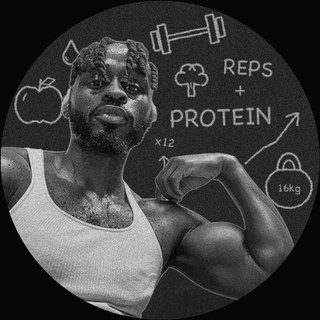
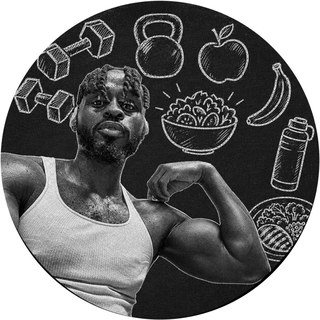
New chalk headshot on website

diff --git a/index.html b/index.html
@@ -43,8 +43,8 @@ h2{font-size:clamp(34px,8.6vw,72px);margin-bottom:22px}
 .hero{padding:30px 0 34px}
 .me{display:flex;align-items:center;justify-content:center;gap:12px;margin-bottom:18px}
 .me img{width:72px;height:72px;border-radius:50%;object-fit:cover;flex:none}
-.me .promise{display:block;color:var(--muted);font-weight:700;letter-spacing:.06em;margin-top:2px}
-.me .eyebrow{margin:0;text-align:left;line-height:1.5}
+.me .promise{display:block;color:var(--black);font-weight:400;letter-spacing:.06em;margin-top:2px}
+.me .eyebrow{margin:0;text-align:left;line-height:1.5;color:var(--black);font-weight:400}
 .hero .lead{margin:16px auto 22px}
 .hero-media{position:relative;max-width:620px;margin:0 auto 22px;border-radius:10px;overflow:hidden;border:1px solid var(--line)}
 .hero-media img{width:100%;max-height:68vh;object-fit:cover;object-position:top}

diff --git a/template.html b/template.html
@@ -43,8 +43,8 @@ h2{font-size:clamp(34px,8.6vw,72px);margin-bottom:22px}
 .hero{padding:30px 0 34px}
 .me{display:flex;align-items:center;justify-content:center;gap:12px;margin-bottom:18px}
 .me img{width:72px;height:72px;border-radius:50%;object-fit:cover;flex:none}
-.me .promise{display:block;color:var(--muted);font-weight:700;letter-spacing:.06em;margin-top:2px}
-.me .eyebrow{margin:0;text-align:left;line-height:1.5}
+.me .promise{display:block;color:var(--black);font-weight:400;letter-spacing:.06em;margin-top:2px}
+.me .eyebrow{margin:0;text-align:left;line-height:1.5;color:var(--black);font-weight:400}
 .hero .lead{margin:16px auto 22px}
 .hero-media{position:relative;max-width:620px;margin:0 auto 22px;border-radius:10px;overflow:hidden;border:1px solid var(--line)}
 .hero-media img{width:100%;max-height:68vh;object-fit:cover;object-position:top}
